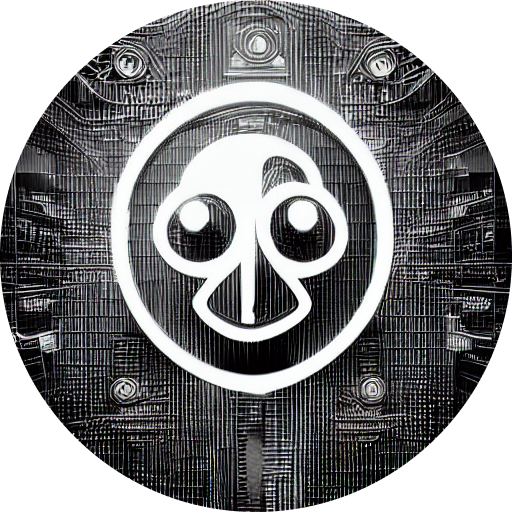
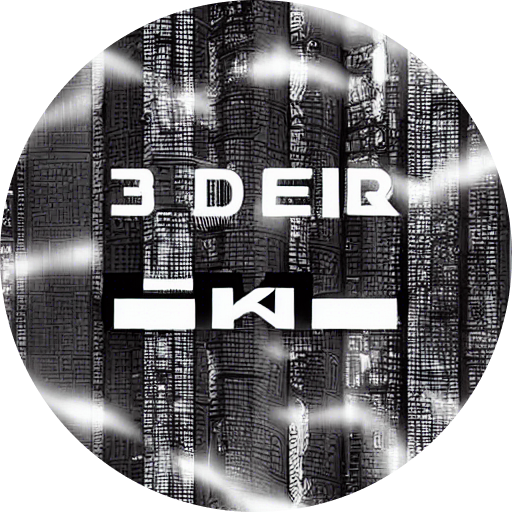
chore: update

diff --git a/public/quotes.html b/public/quotes.html
@@ -48,9 +48,7 @@
 
 <p><em>Last updated on 13.03.2022</em></p>
 
-<p><img src="./img/sunrise.png" alt="" /></p>
-
-<p>Not all of these are to be taken serious. I don&rsquo;t fully endorse, believe in, or live by the content of these quotes, I just find them worth to collect and share. Some are statements made by famous people, others were found in random places on the internet. (Attribution added where I am somewhat certain.)</p>
+<p>I don&rsquo;t fully endorse, believe in, or live by the content of these quotes, I find them worthy to collect and share. Some are statements made by famous people, others were found in random places on the internet. (Attribution added where I am somewhat certain.)</p>
 
 <blockquote>
 <p>&ldquo;The possible has been tried and failed. Now it’s time to try the impossible.&rdquo; - <a href="https://en.wikipedia.org/wiki/Sun_Ra">Sun Ra</a></p>
@@ -101,6 +99,8 @@
 
 <p>&ldquo;Don’t hate the media. Be the media.&rdquo;</p>
 </blockquote>
+
+<p><img class="center" src="./static/img/hero-quotes.png" alt="Hero Image" /></p>
 
 </div>
 

diff --git a/public/index.html b/public/index.html
@@ -46,6 +46,8 @@
 <div class="content">
     <h2>hello stranger 👋</h2>
 
+<p><a href="blog.html"><img class="center" src="./static/img/hero-index.png" alt="Hero Image - Click me!" /></a></p>
+
 <p>Welcome to my personal website. There are many like it but this one is
 mine.</p>
 
@@ -72,8 +74,6 @@ You just need a domain.
 furthering the creativity and diversity online one webpage at a time.</p>
 
 <p><code>- vinckr</code></p>
-
-<p><a href="blog.html"><img class="center" src="./static/img/hero-index.png" alt="Hero Image - Click me!" /></a></p>
 
 <p><img src="./static/img/counter.gif" alt="Counter overloaded - too many visitors!" /></p>
 

diff --git a/public/style.css b/public/style.css
@@ -43,7 +43,7 @@ a {
 .header {
   display: grid;
   background-color: #000000;
-  grid-template-columns: 0.3fr 1fr;
+  grid-template-columns: 0.1fr 1fr;
   align-items: center;
 }
 
@@ -58,7 +58,6 @@ a {
 .nav {
   list-style-type: none;
   color: #000000;
-  margin-top: 1rem 0 1rem;
 }
 
 .nav li {
@@ -78,4 +77,5 @@ a {
   display: block;
   margin-left: auto;
   margin-right: auto;
+  width: 75%;
 }

diff --git a/public/blog.html b/public/blog.html
@@ -59,7 +59,6 @@
 <ul>
 <li><a href="./git.html">git</a></li>
 <li><a href="./macos.html">macos</a></li>
-<li><a href="./markdown.html">markdown</a></li>
 </ul>
 
 <h3>Other</h3>
@@ -68,6 +67,8 @@
 <li><a href="./quotes.html">quotes</a></li>
 <li><a href="./reviews.html">reviews</a></li>
 </ul>
+
+<p><img class="center" src="./static/img/hero-blog.png" alt="Hero Image" /></p>
 
 </div>
 

diff --git a/public/reviews.html b/public/reviews.html
@@ -145,6 +145,8 @@
 <li><a href="https://www.goodreads.com/book/show/12617.Manufacturing_Consent">Manufacturing Consent: The Political Economy of the Mass Media</a></li>
 </ul>
 
+<p><img class="center" src="./static/img/hero-reviews.png" alt="Hero Image" /></p>
+
 </div>
 
 <div class="footer">

diff --git a/public/macos.html b/public/macos.html
@@ -224,6 +224,8 @@ brew update &amp;&amp; brew upgrade &amp;&amp; brew doctor &amp;&amp; brew clean
 <li><a href="https://privacybadger.org/">Privacy Badger</a></li>
 </ul>
 
+<p><img class="center" src="./static/img/hero-macos.png" alt="Hero Image" /></p>
+
 </div>
 
 <div class="footer">

diff --git a/public/git.html b/public/git.html
@@ -109,6 +109,8 @@ git checkout -b &lt;branch-name&gt; origin/&lt;branch-name&gt;
 <li><a href="https://gitfu.wordpress.com/">git-fu</a></li>
 </ul>
 
+<p><img class="center" src="./static/img/hero-git.png" alt="Hero Image" /></p>
+
 </div>
 
 <div class="footer">

diff --git a/public/links.html b/public/links.html
@@ -313,6 +313,8 @@
 <li><a href="https://www.555-timer-circuits.com/">555 Timer Circuits</a>.</li>
 </ul>
 
+<p><img class="center" src="./static/img/hero-links.png" alt="Hero Image" /></p>
+
 </div>
 
 <div class="footer">

diff --git a/build.go b/build.go
@@ -25,7 +25,10 @@ func getYear() string {
 	return time.Now().Format("2006")
 }
 
-func buildPage(directory string) {
+// declare a ...string
+// https://stackoverflow.com/questions/23542989/how-do-i-pass-a-variable-number-of-arguments-to-a-function-in-go
+
+func buildPage(directory string, templates ...string) {
 
 	// get list of files in markdown directory
 	files, readDirErr := os.ReadDir(directory)
@@ -48,7 +51,7 @@ func buildPage(directory string) {
 		fmt.Print("Pagetitle: " + data.PageTitle)
 
 		// insert body in template
-		var templates = template.Must(template.ParseFiles("./templates/page.tmpl", "./templates/header.tmpl", "./templates/footer.tmpl", "./templates/body.tmpl"))
+		var templates = template.Must(template.ParseFiles(templates...))
 		build := new(strings.Builder)
 		templateErr := templates.ExecuteTemplate(build, "Page", data)
 		if templateErr != nil {
@@ -67,5 +70,5 @@ func buildPage(directory string) {
 
 func main() {
 
-	buildPage("./markdown/")
+	buildPage("./markdown/", "./templates/page.tmpl", "./templates/header.tmpl", "./templates/footer.tmpl", "./templates/body.tmpl")
 }
